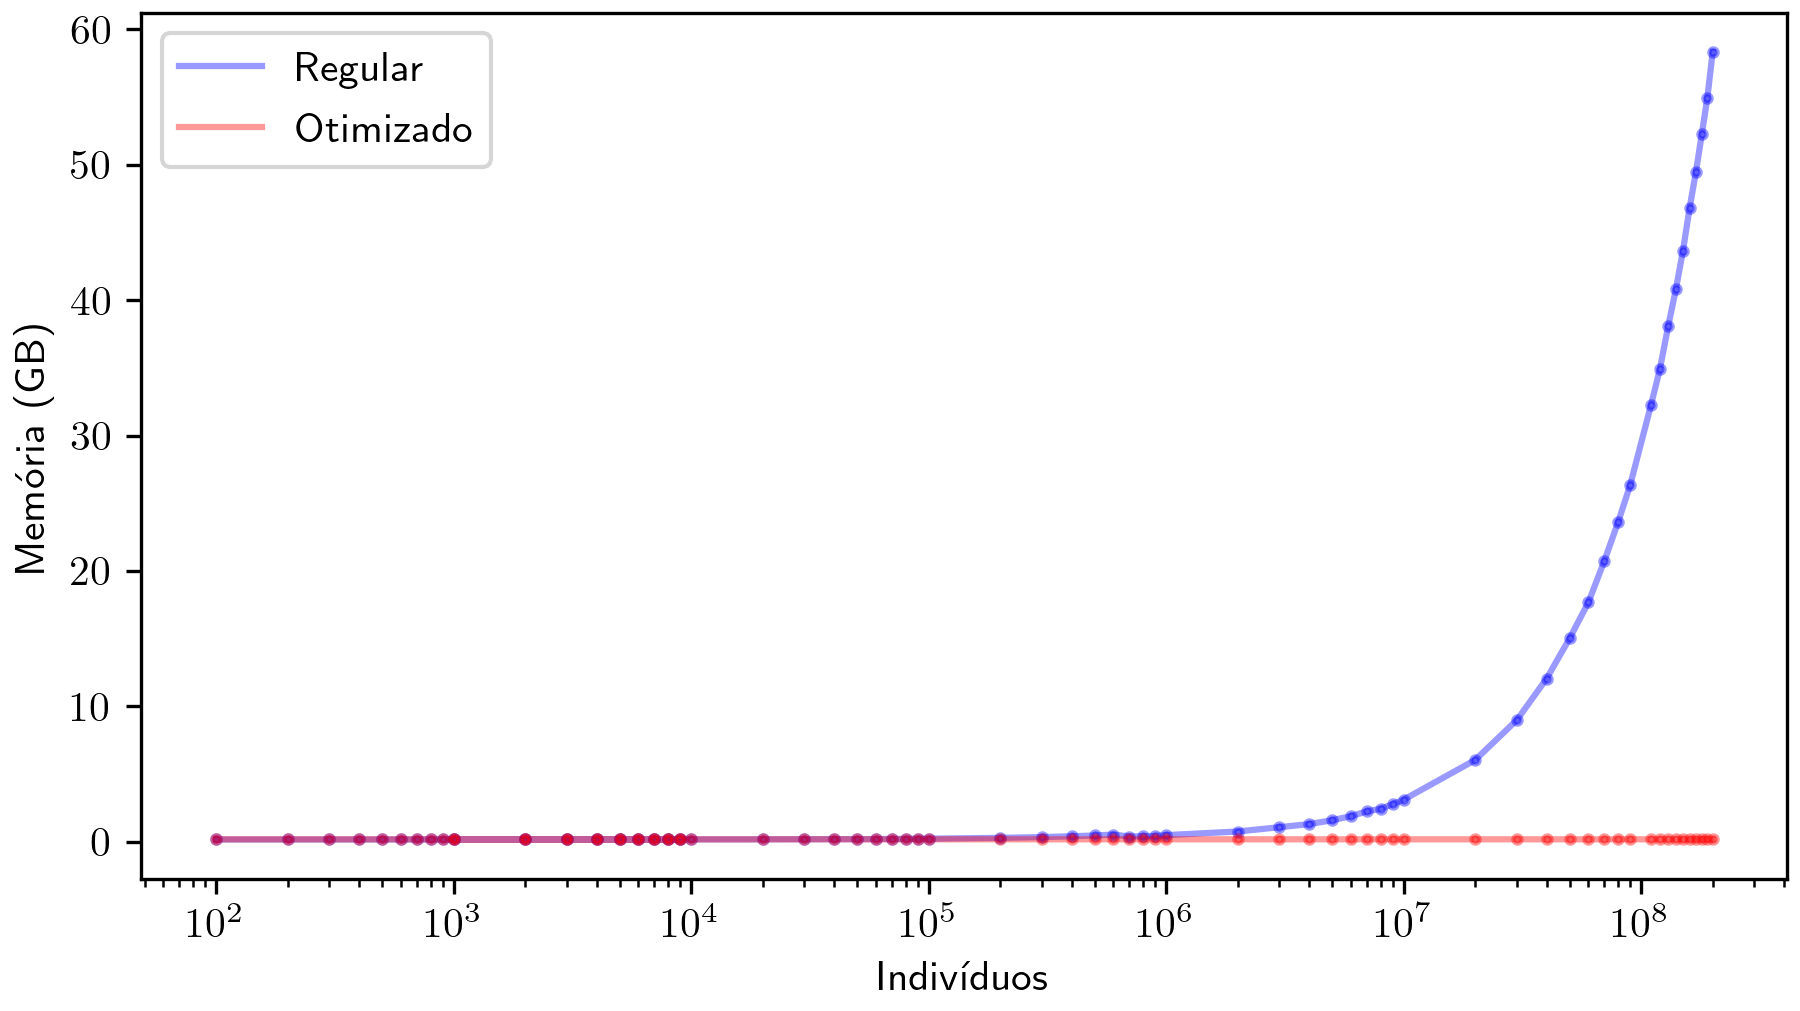
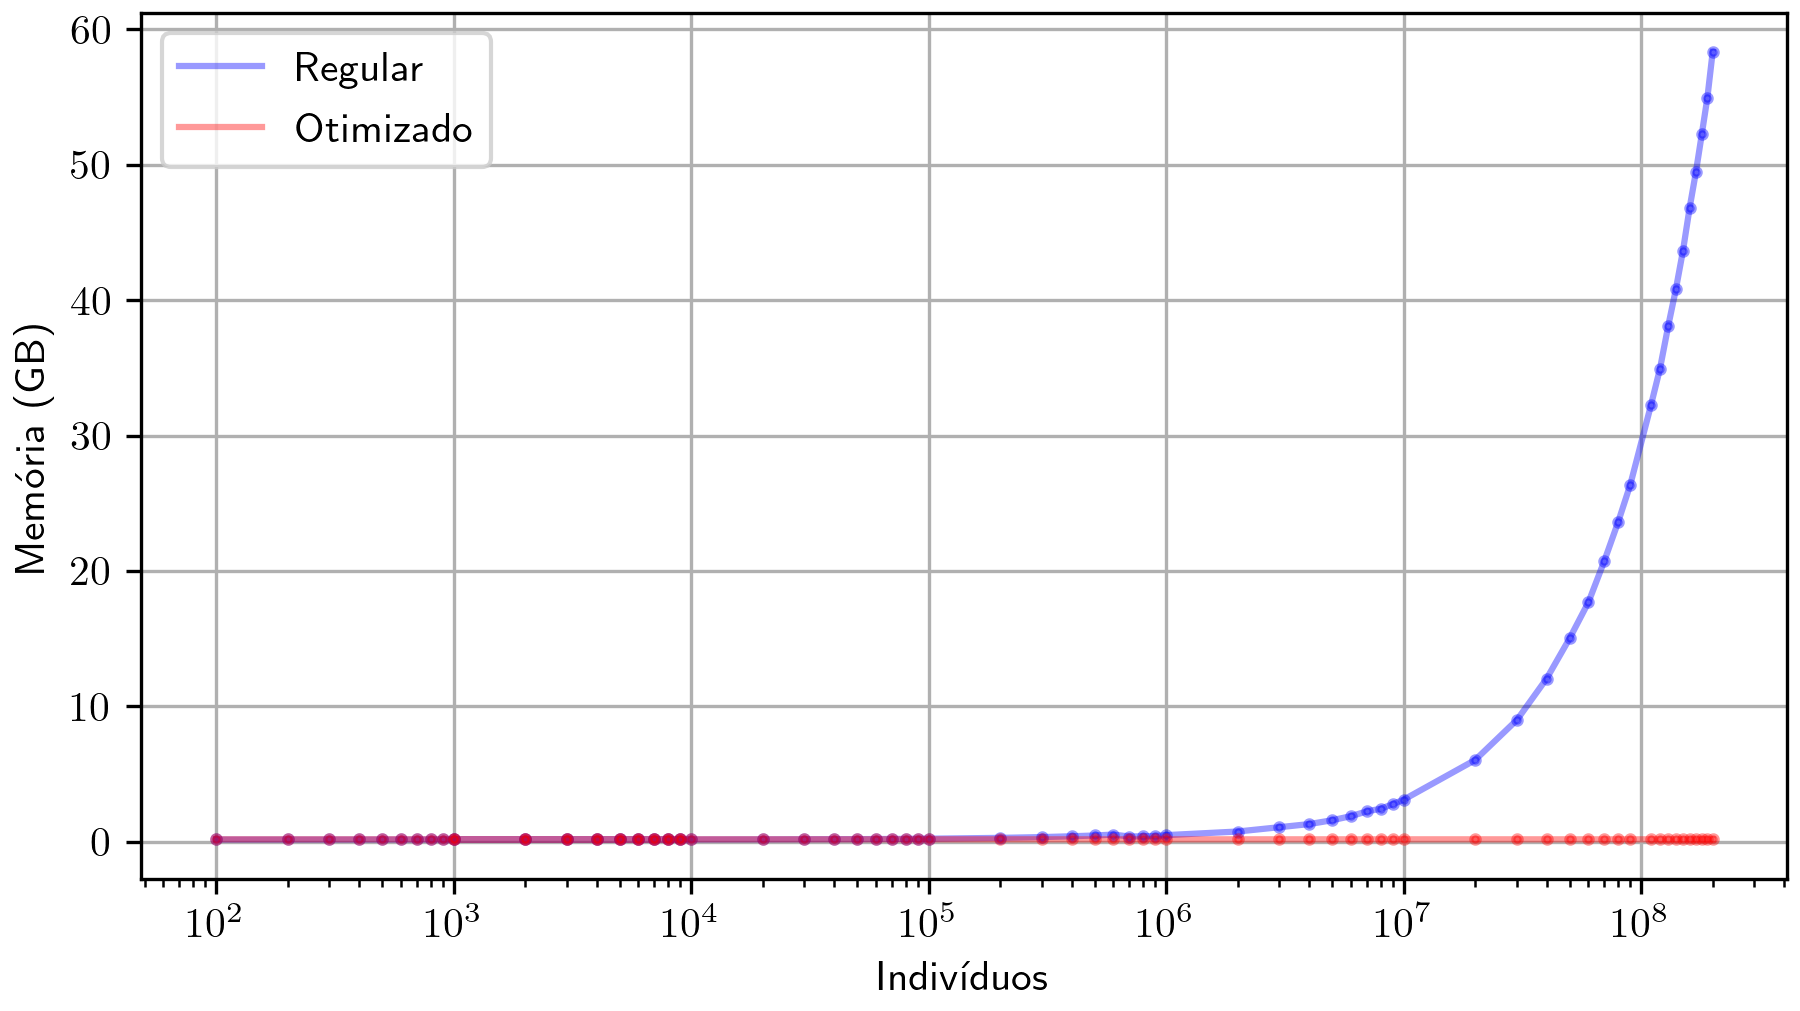
Finished experiments enmc

diff --git a/paper_enmc.py b/paper_enmc.py
@@ -134,6 +134,7 @@ ax.set_xlabel("Indivíduos")
 ax.set_ylabel("Memória (GB)")
 ax.set_yscale('linear')
 ax.set_xscale('log')
+ax.grid(True)
 ax.legend()
 fig.savefig(filename, dpi=300)
 
@@ -232,6 +233,7 @@ ax.plot(expsto[:,0], expsto[:,2], 'ro', markersize=2, alpha=.3)
 #ax.set_title(r'Comparison SIR Model (stochastic and deterministic) $\beta: {}$'.format(beta), pad=20)
 ax.set_xlabel("Tempo (dias)")
 ax.set_ylabel("Indivíduos")
+ax.grid(True)
 leg = ax.legend()
 filename = 'imgs/enmc_exp_results.png'
 print(f"Salvando imagem do experimento 3 em {filename}")
@@ -256,6 +258,7 @@ ax.set_ylabel("Indivíduos")
 ax.set_ylim([9.2e6, 1e7])
 ax.set_xlim([70, 110])
 ax.get_legend().remove()
+ax.grid(True)
 filename = 'imgs/enmc_exp_results_inset_good_dec.png'
 print(f"Salvando imagem do experimento 3 em {filename}")
 fig.savefig(filename, dpi=300)
